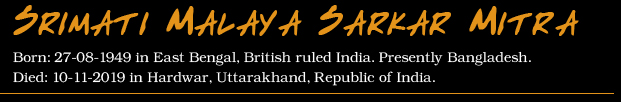
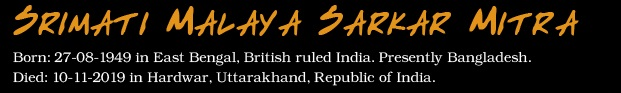
Add files via upload

Changed region(s): [[0.0, 0.4946, 1.0, 0.9247], [0.0, 0.043, 0.9485, 0.3871], [0.306, 0.0645, 0.3366, 0.086]]

diff --git a/index.html b/index.html
@@ -37,6 +37,7 @@
     		<div class="row no-gutters">
     			<div class="col text-center">
     				<div class="image_container">
+    					<hr>
 						<img src="images/malayashok_05.jpg" alt="img" class="img-fluid">
 						<img src="images/malayashok_06.jpg" alt="img" class="img-fluid">
 						<img src="images/malayashok_07.jpg" alt="img" class="img-fluid">

diff --git a/css/style.css b/css/style.css
@@ -29,3 +29,9 @@ audio {
 	float: left;
 	margin-top: 15px;
 }
+.image_container hr {
+	width: 100%;
+	border: 1px solid #E3931B;
+	margin: 0 auto;
+	margin-bottom: 5px;
+}

diff --git a/css/media.css b/css/media.css
@@ -87,4 +87,7 @@
 		width: 55%;
 		padding-left: 100px;
 	}
+	.image_container hr {
+		width: 92%;
+	}
 }
